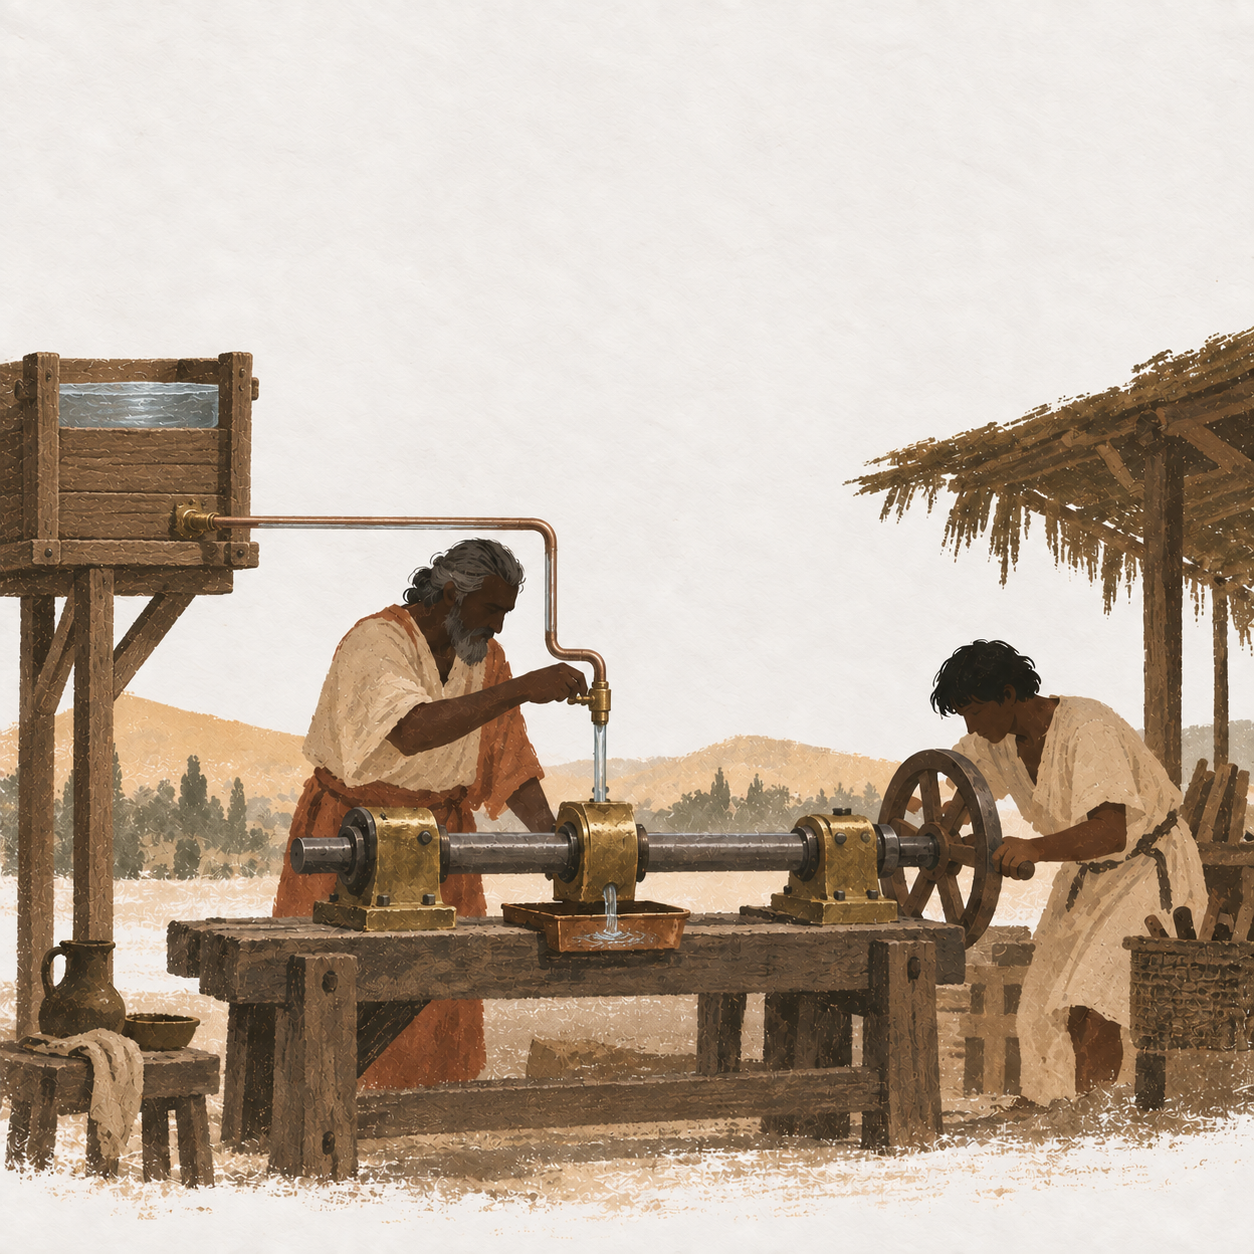
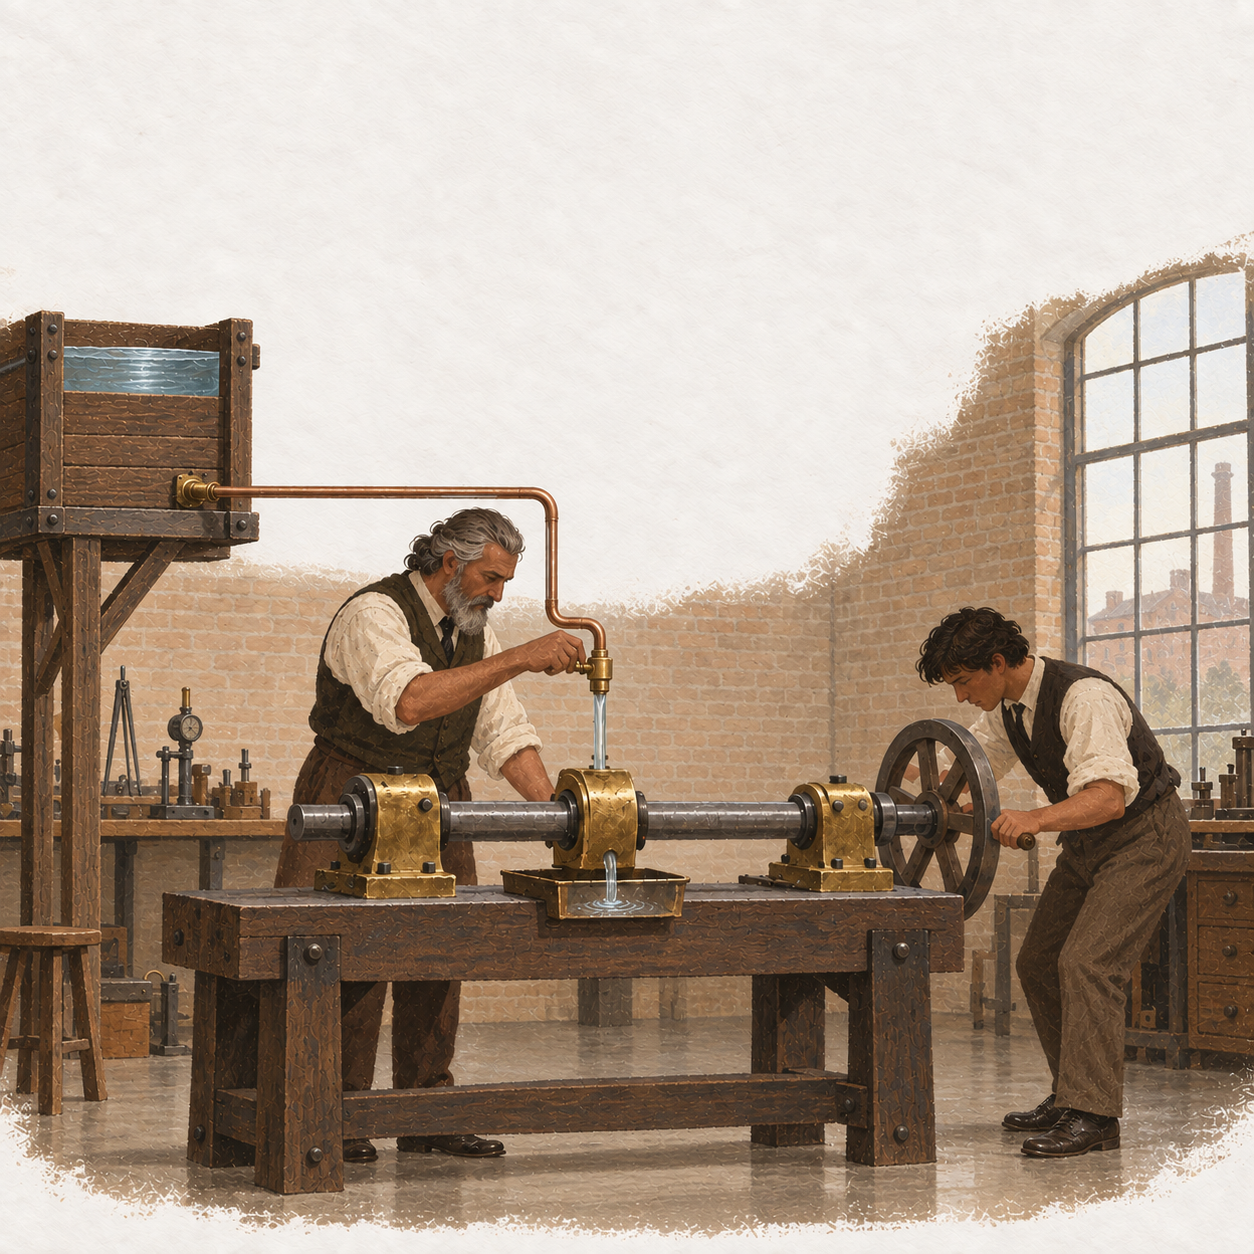
Advance industrial discovery settings with their machinery

diff --git a/assets/ui/research/paper/INDUSTRIAL_ERA_CORRECTIONS.md b/assets/ui/research/paper/INDUSTRIAL_ERA_CORRECTIONS.md
@@ -1,0 +1,35 @@
+# Industrial scene corrections
+
+User-directed correction, 2026-09-13. Built-in ImageGen edits; native outputs retained. Replaces incongruous rural staging with industrial interiors and matching work clothing. Representative settings, not claims of first invention dates. Stiffness depicts the unloaded comparison setup before applying weights. No runtime or discovery-count change.
+
+## textile_calendering
+
+Native: `/Users/seanpurtill/.codex/generated_images/01a0978a-39f5-7620-a77f-5918ccb1d8ba/exec-5a4ef6ec-ed23-4791-bd3b-037088ebf0c3.png`
+
+Exact edit prompt:
+
+Edit this textile-calendering discovery illustration. Replace the rural outdoor workshop with a believable circa 1900 textile mill INTERIOR: brick walls, tall multi-pane factory windows, iron support column, level paved industrial floor, cloth storage on factory racks. Upgrade the roller apparatus to a substantial cast-iron mill calender and proper cloth feed table, worker wearing fitted industrial work shirt and trousers, hands safely away from roller nip. Remove every village cottage, thatched or tiled hut, hillside, tree and outdoor drying line. Preserve square composition, warm ivory fibrous paper, matte gouache dry brush, restrained ochre/umber/olive and steel gray, softly unfinished vignette edges, plenty of quiet upper paper. Equipment and human remain legible in lower half. This is industrial manufacturing with historically matching architecture, not machinery dropped into an ancient village. No text, no watermark.
+
+## cutting_fluid_management
+
+Native: `/Users/seanpurtill/.codex/generated_images/01a0978a-39f5-7620-a77f-5918ccb1d8ba/exec-617f1202-ca1e-4c47-aa8d-63bf02eb1c80.png`
+
+Exact edit prompt:
+
+Edit this discovery illustration into a coherent early twentieth-century machine shop INTERIOR. Remove thatched shelter, hills, vegetation, ancient robes and rustic outdoor bench. Brick factory wall, tall glazed windows, solid level concrete floor, cast-iron lathe stand and metal coolant reservoir/filter housing. Worker in fitted work shirt, trousers, closed work shoes and safety glasses, hands on controls away from rotating stock. Preserve actual central lathe, visible coolant nozzle flowing onto cutting zone, drain returning to finite reservoir and replaceable filter; show the coolant circuit clearly. Preserve square spare matte gouache on ivory fibrous paper, restrained warm ochre/umber/olive/steel gray, lower-half scene and quiet upper paper, soft dry-brushed vignette. No text, watermark or floating diagram. Architecture, clothing and machinery must belong to the same industrial setting.
+
+## fluid_film_bearings
+
+Native: `/Users/seanpurtill/.codex/generated_images/01a0978a-39f5-7620-a77f-5918ccb1d8ba/exec-913e7377-6820-44be-88d2-3adb42dc1b18.png`
+
+Exact edit prompt:
+
+Edit this bearing experiment illustration to a coherent late nineteenth-century engineering laboratory INTERIOR. Replace ancient tunics with fitted work shirts, waistcoat/trousers and closed shoes. Remove all thatched shelter, hills, trees, rustic ground, earthen pots. Brick wall and tall glazed laboratory window, smooth floor and stout engineered workbench. Preserve mechanism: horizontal rotating steel shaft aligned through three close-fitting brass bearing housings, hand crank, elevated WATER supply with visible clear pale-blue water flowing through center bearing and draining into collection tray. It is water, not oil. Preserve aligned shaft and narrow bearing gap; no floating parts. Square matte gouache on ivory fibrous paper, subdued ochre/umber/olive/steel-gray, lower-half scene, quiet upper paper and unfinished vignette edges. Historically matching architecture, clothing and tools, no text or watermark.
+
+## machine_tool_stiffness_assessment
+
+Native: `/Users/seanpurtill/.codex/generated_images/01a0978a-39f5-7620-a77f-5918ccb1d8ba/exec-f39d34f4-c619-463f-aef1-819c67e4358a.png`
+
+Exact edit prompt:
+
+Edit this machine stiffness discovery illustration into an early twentieth-century engineering metrology laboratory interior. Replace thatched shelter, rural hills, trees, dirt and ancient robes with masonry factory walls, tall glazed windows, clean level floor, fitted work shirts and trousers with closed work shoes. Preserve experiment: rigid machine-tool slide on stout engineering bench, dial indicator on independent support touching slide, measured weights applying load through fixture to slide so deflection can be measured. Use secure compact steel loading frame instead of rustic wooden crane; operator keeps clear of suspended weights. Two technicians compare indicator before and after loading. No ancient village scenery. Keep square warm ivory fibrous paper, matte gouache dry brush, restrained umber/ochre/olive/steel gray, equipment in lower half, broad quiet upper paper and soft unfinished edges. No readable text or watermark.

diff --git a/assets/ui/research/paper/PROMPTS.md b/assets/ui/research/paper/PROMPTS.md
@@ -20,7 +20,7 @@ Use case: historical-scene. Create one square 1024x1024 technology-tree illustra
 
 ## Remaining queue
 
-Each queued identity needs its own scene based on the catalog observation. Use the approved apprentice image as a style reference, with the same matte gouache, warm ivory paper, restrained pigments, broad negative space and simplified silhouettes. Depict the actual technology's tools, historical stage and practice. No text or UI. Generate one image per identity with the built-in tool, inspect it, save it in this directory, then add its explicit reviewed binding. Queued descriptions are not completed illustrations.
+Each queued identity needs its own scene based on the catalog observation. Specify matte gouache, warm ivory paper, restrained pigments, broad negative space and simplified silhouettes in prose. Choose visual references from the depicted historical setting; do not reuse the ancient apprentice scene for industrial or modern subjects. Depict the actual technology's tools, historical stage and practice. No text or UI. Generate one image per identity with the built-in tool, inspect it, save it in this directory, then add its explicit reviewed binding. Queued descriptions are not completed illustrations.
 
 ## Chlor-Alkali Cells
 
@@ -62,3 +62,9 @@ Built-in image generation, using the approved apprentice image as a style refere
 - [Coke Firing](COKE_FIRING_PROMPT.md) — brick ovens and coke handling.
 
 - [Tinplate Coating and Food Retorts](CANNING_ART_PROMPTS.md) — material coating and container processing.
+
+## Historical setting review
+
+Advance architecture, clothing, infrastructure and working environment with the actual apparatus. Specify a representative period and workshop type before generation. Industrial machine tools belong in coherent machine shops, mills or laboratories; modern electrical processes need appropriate control equipment and facilities. Ancient craft scenes may retain early materials. A shared paper style does not imply a shared era. Inspect buildings and clothing as well as the central mechanism before accepting each image. Reject ancient robes or thatched-village scenery inadvertently inherited by industrial scenes.
+
+Corrected assets and exact prompts: [Industrial era corrections](INDUSTRIAL_ERA_CORRECTIONS.md).

diff --git a/assets/ui/research/paper/MACHINE_PROCESS_PROMPTS.md b/assets/ui/research/paper/MACHINE_PROCESS_PROMPTS.md
@@ -83,3 +83,6 @@ Prompt: Use case: historical-scene. Asset type: square discovery-card illustrati
 Native: `/Users/seanpurtill/.codex/generated_images/01a0978a-39f5-7620-a77f-5918ccb1d8ba/exec-1c693014-aa47-4e01-adee-bdab60459d9c.png`
 
 Prompt: Use case: historical-scene. Asset type: square discovery-card illustration for Tomorrow and Tomorrow. Input is a STYLE REFERENCE ONLY; make a new distinct scene. Sparse gouache on warm ivory fibrous paper, matte dry brush texture, restrained ochre/umber/olive palette, believable small human figures and equipment concentrated in lower half, broad quiet paper above, soft unfinished vignette edges. No frame, lettering, readable text, watermark, glossy photorealism or floating diagrams. Subject: A workshop technician positions overlapping thin copper strips beneath a compact vibrating horn and anvil fixture. A completed small tab joint and controlled-pressure clamp are visible, no flame or welding arc. Twentieth-century indoor precision machine shop, technician in plain work shirt and trousers; reference supplies painting style only.
+
+
+Historical-setting correction: selected original assets have been superseded; see [Industrial era corrections](INDUSTRIAL_ERA_CORRECTIONS.md) for final prompts and native outputs.

diff --git a/assets/ui/research/paper/TEXTILE_COLORANT_PROMPTS.md b/assets/ui/research/paper/TEXTILE_COLORANT_PROMPTS.md
@@ -49,3 +49,6 @@ Native: `/Users/seanpurtill/.codex/generated_images/01a0978a-39f5-7620-a77f-5918
 Project: `assets/ui/research/paper/textile_calendering.png`
 
 Use case: historical-scene. Asset type: square discovery-card illustration for Tomorrow and Tomorrow. Input is a STYLE REFERENCE ONLY; make a new distinct scene. Sparse gouache on warm ivory fibrous paper, matte dry brush texture, restrained ochre/umber/olive palette, believable small human figures and equipment concentrated in lower half, broad quiet paper above, soft unfinished vignette edges. No frame, lettering, readable text, watermark, glossy photorealism or floating diagrams. Subject: A late nineteenth-century textile worker wearing simple shirt and trousers feeds a plain ivory cloth length through the close nip between two smooth horizontal finishing rollers in a sturdy compact iron frame with a handwheel pressure adjustment. Output cloth lies smoother and slightly lustrous on the table. Keep hands safely away from nip, no huge machinery or glossy effect.
+
+
+Historical-setting correction: selected original assets have been superseded; see [Industrial era corrections](INDUSTRIAL_ERA_CORRECTIONS.md) for final prompts and native outputs.
